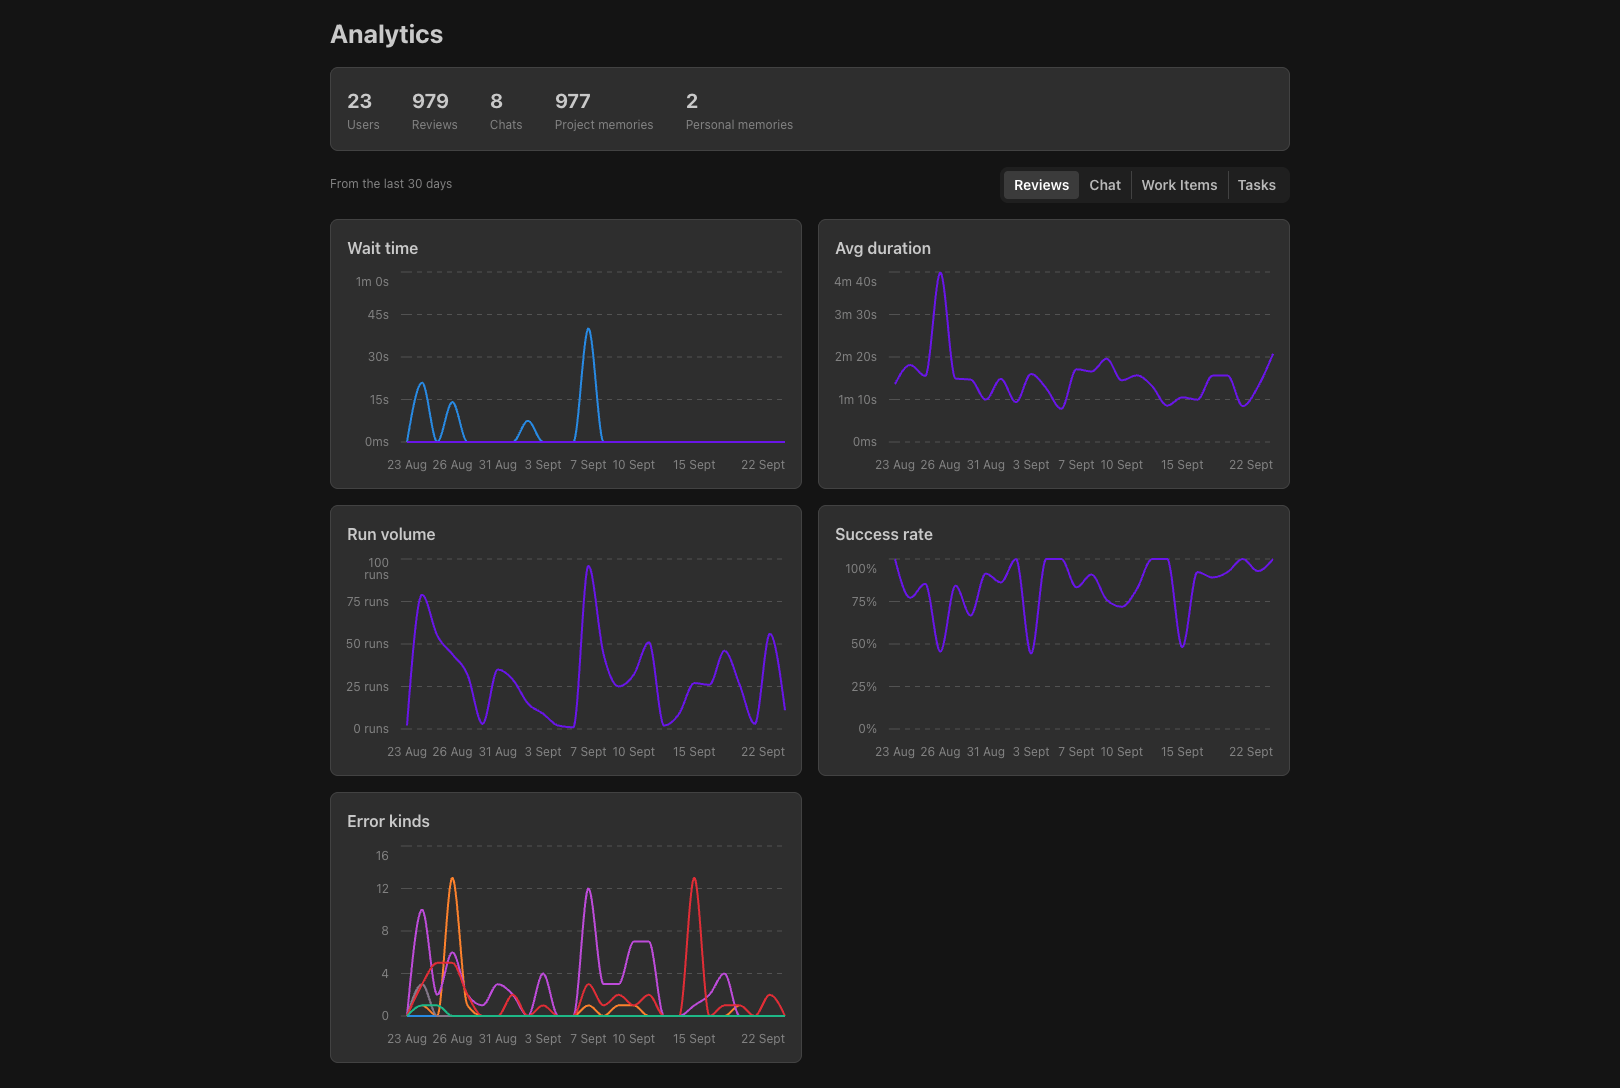
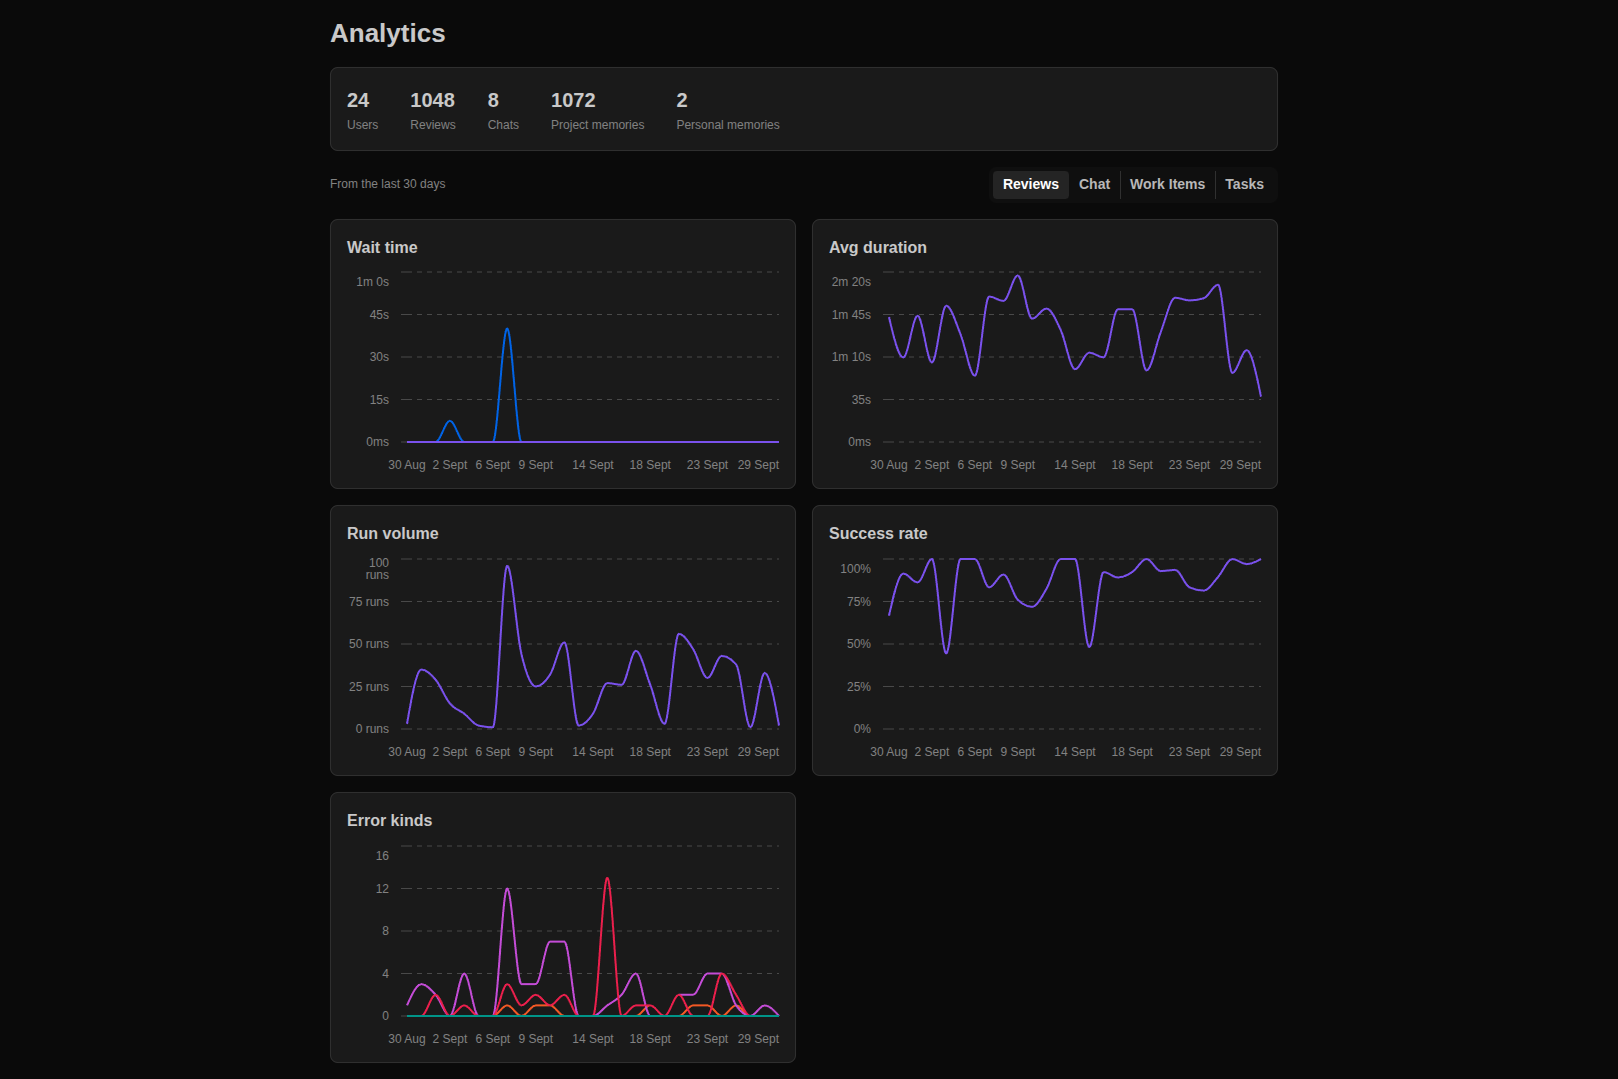
docs: refresh README stats and roadmap

diff --git a/README.md b/README.md
@@ -8,7 +8,7 @@
 
 Reviews merge requests, resolves work items and tasks autonomously, and chats with full project context — remembering what matters so every run builds on the last.
 
-In active production use since mid-2026 — 979 reviews, 64% comment acceptance rate (Sept 2026, [see snapshot](#screenshots)).
+Battle-tested in production since mid-2026 — **133 releases**, 1k+ reviews, 67% comment acceptance rate (Sept 29 2026, [see snapshot](#screenshots)). [Development history →](CHANGELOG.md) every failure and fix, documented.
 
 [![License: MIT](https://img.shields.io/badge/license-MIT-blue.svg)](LICENSE)
 [![Node](https://img.shields.io/badge/node-22%2B-339933?logo=node.js&logoColor=white)](package.json)
@@ -40,11 +40,24 @@ Full breakdown: [Features](https://vrajpal-jhala.github.io/langgraph-harness/fea
 ## Screenshots
 
 <div align="center">
-<img src="docs/public/screenshots/analytics-overview.png" width="720" alt="Real production analytics, Sept 2026 snapshot: 979 reviews, 64% comment acceptance rate over 30 days" />
-<img src="docs/public/screenshots/analytics-detail.png" width="720" alt="Real production analytics detail, Sept 2026 snapshot: reliability, efficiency, and guardrail health" />
+<img src="docs/public/screenshots/analytics-overview.png" width="720" alt="Real production analytics, Sept 29 2026 snapshot: 1k+ reviews, 67% comment acceptance rate" />
+<img src="docs/public/screenshots/analytics-detail.png" width="720" alt="Real production analytics detail, Sept 29 2026 snapshot: reliability, efficiency, and guardrail health" />
 </div>
 
 More in the [screenshots gallery](https://vrajpal-jhala.github.io/langgraph-harness/screenshots).
+
+## Roadmap
+
+- [x] Automatic MR reviews, issue-to-draft-MR, on-demand tasks, and a GitLab-aware chat
+- [x] Isolated sandbox for code-changing runs, with human approval before Chat takes sensitive actions
+- [x] Project memory that carries across reviews, and crashed runs that resume instead of restarting
+- [x] Recurring scheduled tasks
+- [ ] GitHub support: assign an issue to the bot, get a draft PR ([#35](https://github.com/vrajpal-jhala/langgraph-harness/issues/35))
+- [ ] Project memory that keeps itself up to date, with visibility into what it learned ([#2](https://github.com/vrajpal-jhala/langgraph-harness/issues/2))
+- [ ] A self-hosted memory engine that links related facts and retrieves them by relevance ([#1](https://github.com/vrajpal-jhala/langgraph-harness/issues/1))
+- [ ] Web search, so agents can look things up instead of only fetching a known page ([#24](https://github.com/vrajpal-jhala/langgraph-harness/issues/24))
+
+Everything else is tracked in [open issues](https://github.com/vrajpal-jhala/langgraph-harness/issues).
 
 ## Stack
 
